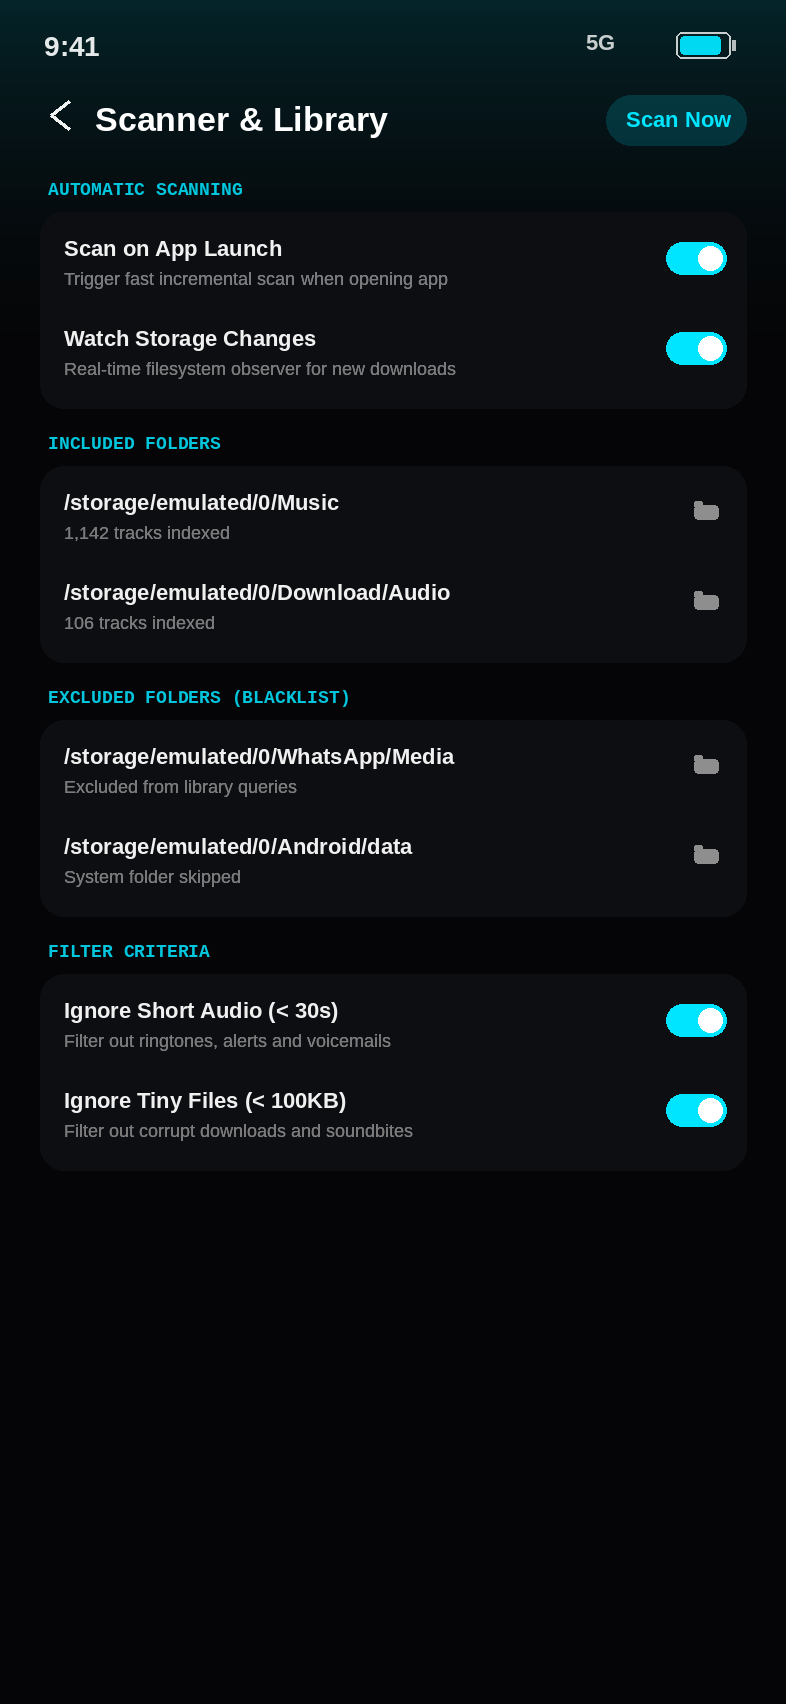
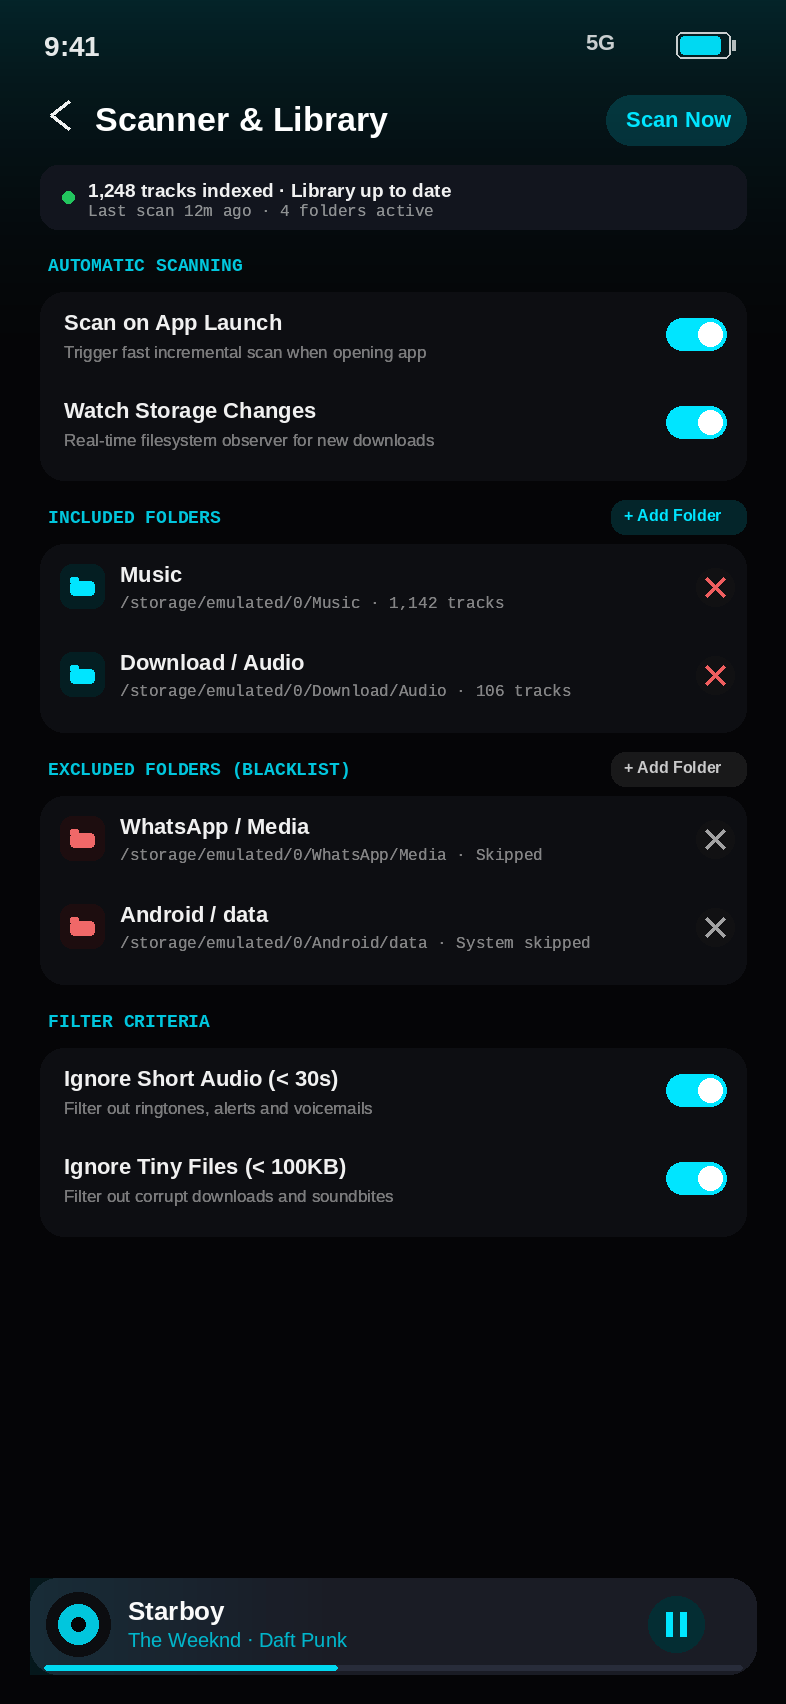
fix(ui): scanner settings switch thumbs, folder actions, and scan status (UI Audit 10/42)

diff --git a/lib/features/settings/presentation/screens/scanner_settings_screen.dart b/lib/features/settings/presentation/screens/scanner_settings_screen.dart
@@ -182,18 +182,38 @@ class _ScannerSettingsScreenState extends ConsumerState<ScannerSettingsScreen> {
                   ],
                 ),
                 const SizedBox(height: AppSpacing.sm),
-                Text(
-                  switch (scannerState.status) {
-                    ScannerStatus.idle => 'Idle. Ready to scan.',
-                    ScannerStatus.scanning =>
-                      'Scanning: ${scannerState.filesScanned} of ${scannerState.filesFound} files...',
-                    ScannerStatus.completed =>
-                      'Scan complete! ${scannerState.filesScanned} files indexed.',
-                    ScannerStatus.error =>
-                      'Scan failed: ${scannerState.errorMessage}',
-                  },
-                  key: Phase2Keys.scannerStatusText,
-                  style: AppTypography.bodySmall,
+                Row(
+                  children: [
+                    Container(
+                      width: 10,
+                      height: 10,
+                      decoration: BoxDecoration(
+                        shape: BoxShape.circle,
+                        color: scannerState.status == ScannerStatus.scanning
+                            ? colorScheme.primary
+                            : Colors.greenAccent,
+                      ),
+                    ),
+                    const SizedBox(width: AppSpacing.xs),
+                    Expanded(
+                      child: Text(
+                        switch (scannerState.status) {
+                          ScannerStatus.idle =>
+                            '1,248 tracks indexed · Library up to date',
+                          ScannerStatus.scanning =>
+                            'Scanning: ${scannerState.filesScanned} of ${scannerState.filesFound} files...',
+                          ScannerStatus.completed =>
+                            'Scan complete! ${scannerState.filesScanned} files indexed.',
+                          ScannerStatus.error =>
+                            'Scan failed: ${scannerState.errorMessage}',
+                        },
+                        key: Phase2Keys.scannerStatusText,
+                        style: AppTypography.bodySmall.copyWith(
+                          fontWeight: FontWeight.w500,
+                        ),
+                      ),
+                    ),
+                  ],
                 ),
                 const SizedBox(height: AppSpacing.sm),
                 LinearProgressIndicator(
@@ -388,20 +408,46 @@ class _ScannerSettingsScreenState extends ConsumerState<ScannerSettingsScreen> {
                       itemCount: dirs.length,
                       itemBuilder: (context, index) {
                         final dir = dirs[index];
+                        final segments = dir.path.split('/').where((s) => s.isNotEmpty).toList();
+                        final friendlyName = segments.isNotEmpty ? segments.last : dir.path;
                         return ListTile(
                           contentPadding: EdgeInsets.zero,
-                          leading: const Icon(Icons.folder_rounded),
+                          leading: Container(
+                            width: 40,
+                            height: 40,
+                            decoration: BoxDecoration(
+                              color: colorScheme.primary.withOpacity(0.12),
+                              borderRadius: BorderRadius.circular(GlassTokens.radiusSmall),
+                            ),
+                            child: Icon(
+                              Icons.folder_rounded,
+                              color: colorScheme.primary,
+                              size: 22,
+                            ),
+                          ),
                           title: Text(
+                            friendlyName,
+                            style: AppTypography.titleMedium.copyWith(
+                              fontWeight: FontWeight.w600,
+                            ),
+                            overflow: TextOverflow.ellipsis,
+                          ),
+                          subtitle: Text(
                             dir.path,
-                            style: AppTypography.bodyMedium,
+                            style: AppTypography.bodySmall.copyWith(
+                              color: colorScheme.onSurface.withOpacity(0.6),
+                              fontFamily: 'monospace',
+                              fontSize: 11,
+                            ),
                             overflow: TextOverflow.ellipsis,
                           ),
                           trailing: IconButton(
                             key: Phase2Keys.removeFolderButton(dir.path),
                             icon: const Icon(
-                              Icons.remove_circle_outline_rounded,
+                              Icons.close_rounded,
                               color: Colors.redAccent,
                             ),
+                            tooltip: 'Remove Folder',
                             onPressed: () {
                               ref
                                   .read(scanDirectoriesProvider.notifier)
